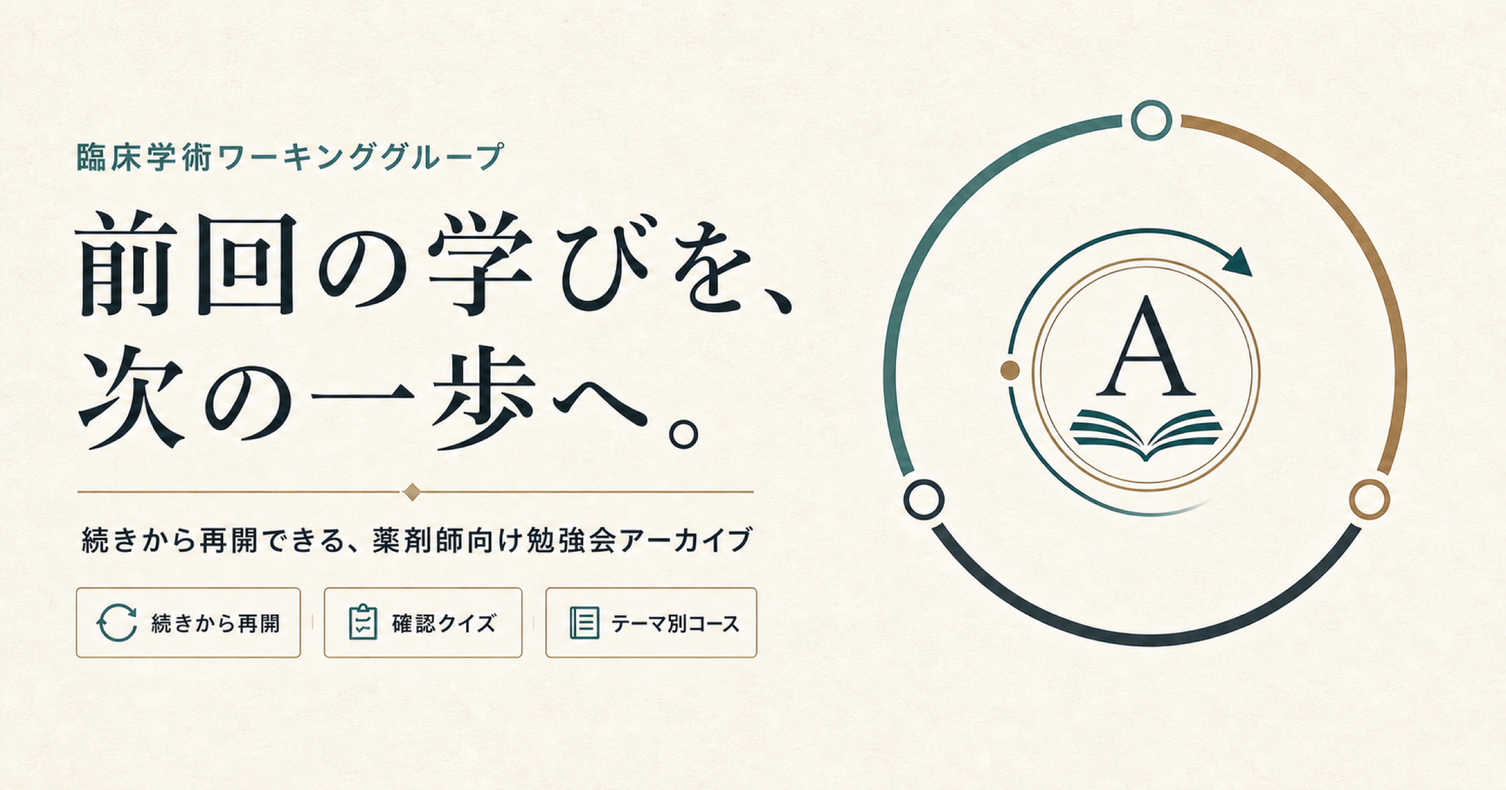
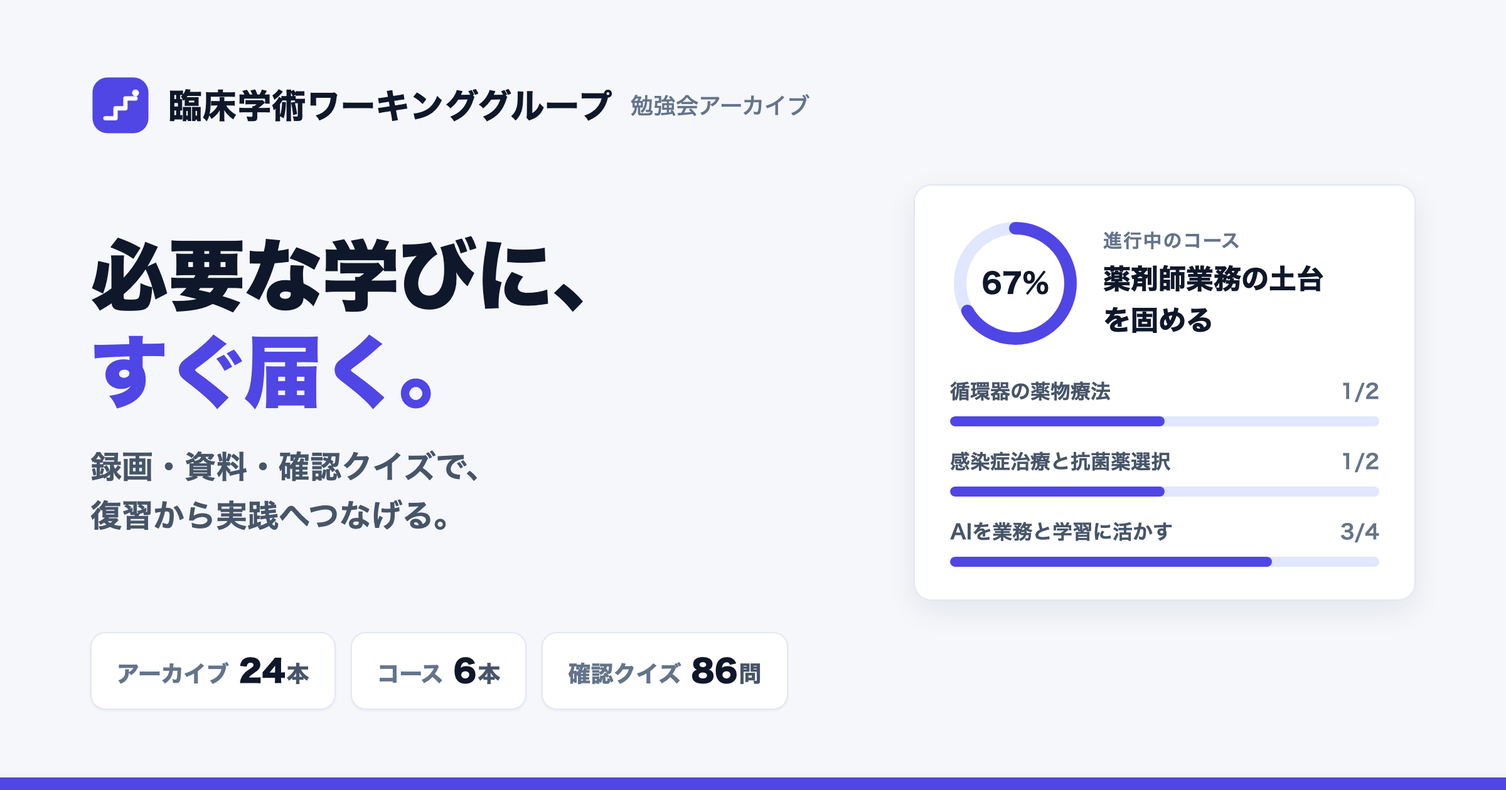
Ship the bolder learning-copy OGP image

diff --git a/design-system/assets/og-export.html b/design-system/assets/og-export.html
@@ -1,7 +1,7 @@
 <!-- @dsCard group="Assets" name="OGP書き出し原稿" subtitle="1200x630 フルブリード (ogp.png生成用)" width="1200" height="630" -->
 <!--
   使い方 (AI向け):
-  - ogp.png を再生成するための実寸原稿。左に代表コピーとサイト全体数値、右にコース進捗ダッシュボードのモチーフ。
+  - ogp.png を再生成するための実寸原稿。左にOGP専用コピー（代表コピーの「勉強会」を「学び」に変えた派生。めいき指定）とサイト全体数値、右にコース進捗ダッシュボードのモチーフ。
   - 書き出し: リポジトリルートで design-system/README.md「OGP画像の書き出し」のコマンドを実行する。
   - 人名・絵文字・感嘆符・誇大表現を入れない。学びの階段マーク (foundations/brand.html が正) を改変せず使う。
   - 右カードのコース名・進捗値は実データ (mockups/DESIGN_BRIEF.md) 由来。変更時も実在データから採る。
@@ -17,7 +17,10 @@
     --ink: #0f172a; --ink-2: #475569; --muted: #64748b; --border: #e3e8f0;
     --primary: #4f46e5; --on-primary: #ffffff;
     --track-primary: #e0e7ff;
-    --font-sans: "Inter", "Noto Sans JP", "Hiragino Sans", "Yu Gothic", sans-serif;
+    /* この原稿は macOS ローカルの Chrome headless でのみ書き出す前提のため、
+       あえて Hiragino Sans を先頭にする (Noto Sans JP が拾われると W7/W8 が細く描画され
+       視認性が落ちる。めいき指定で太め表示を優先)。Web配信ページには適用しない。 */
+    --font-sans: "Hiragino Sans", "Yu Gothic", sans-serif;
   }
   * { box-sizing: border-box; margin: 0; }
   html, body { padding: 0; }
@@ -32,18 +35,18 @@
   .og-brand svg { display: block; }
   .og-brand-name { color: var(--ink); font-size: 27px; font-weight: 700; letter-spacing: 0.02em; }
   .og-brand-sub { color: var(--muted); font-size: 18px; font-weight: 500; }
-  .og-title { color: var(--ink); font-size: 62px; font-weight: 700; letter-spacing: -0.01em; line-height: 1.24; }
+  .og-title { color: var(--ink); font-size: 62px; font-weight: 800; letter-spacing: -0.01em; line-height: 1.24; }
   .og-title em { font-style: normal; color: var(--primary); }
-  .og-lead { margin-top: 18px; color: var(--ink-2); font-size: 25px; font-weight: 500; line-height: 1.55; }
+  .og-lead { margin-top: 18px; color: var(--ink-2); font-size: 25px; font-weight: 600; line-height: 1.55; }
   .og-foot { display: flex; align-items: center; gap: 12px; }
   .og-stat {
     display: inline-flex; align-items: baseline; gap: 8px; padding: 12px 20px;
     border: 1px solid var(--border); border-radius: 12px; background: var(--surface);
     box-shadow: 0 1px 2px rgba(16, 24, 40, 0.05);
   }
-  .og-stat .label { color: var(--muted); font-size: 18px; font-weight: 600; }
-  .og-stat .value { color: var(--ink); font-size: 24px; font-weight: 700; font-variant-numeric: tabular-nums; }
-  .og-stat .value small { margin-left: 1px; color: var(--ink-2); font-size: 18px; font-weight: 600; }
+  .og-stat .label { color: var(--muted); font-size: 18px; font-weight: 700; }
+  .og-stat .value { color: var(--ink); font-size: 24px; font-weight: 800; font-variant-numeric: tabular-nums; }
+  .og-stat .value small { margin-left: 1px; color: var(--ink-2); font-size: 18px; font-weight: 700; }
   .og-right { flex: none; width: 400px; display: flex; align-items: center; justify-content: center; }
   .og-bar { position: absolute; left: 0; right: 0; bottom: 0; height: 10px; background: var(--primary); }
 
@@ -79,7 +82,7 @@
       <span class="og-brand-sub">勉強会アーカイブ</span>
     </div>
     <div>
-      <h1 class="og-title">必要な勉強会に、<br><em>すぐ届く。</em></h1>
+      <h1 class="og-title">必要な学びに、<br><em>すぐ届く。</em></h1>
       <p class="og-lead">録画・資料・確認クイズで、<br>復習から実践へつなげる。</p>
     </div>
     <div class="og-foot">
